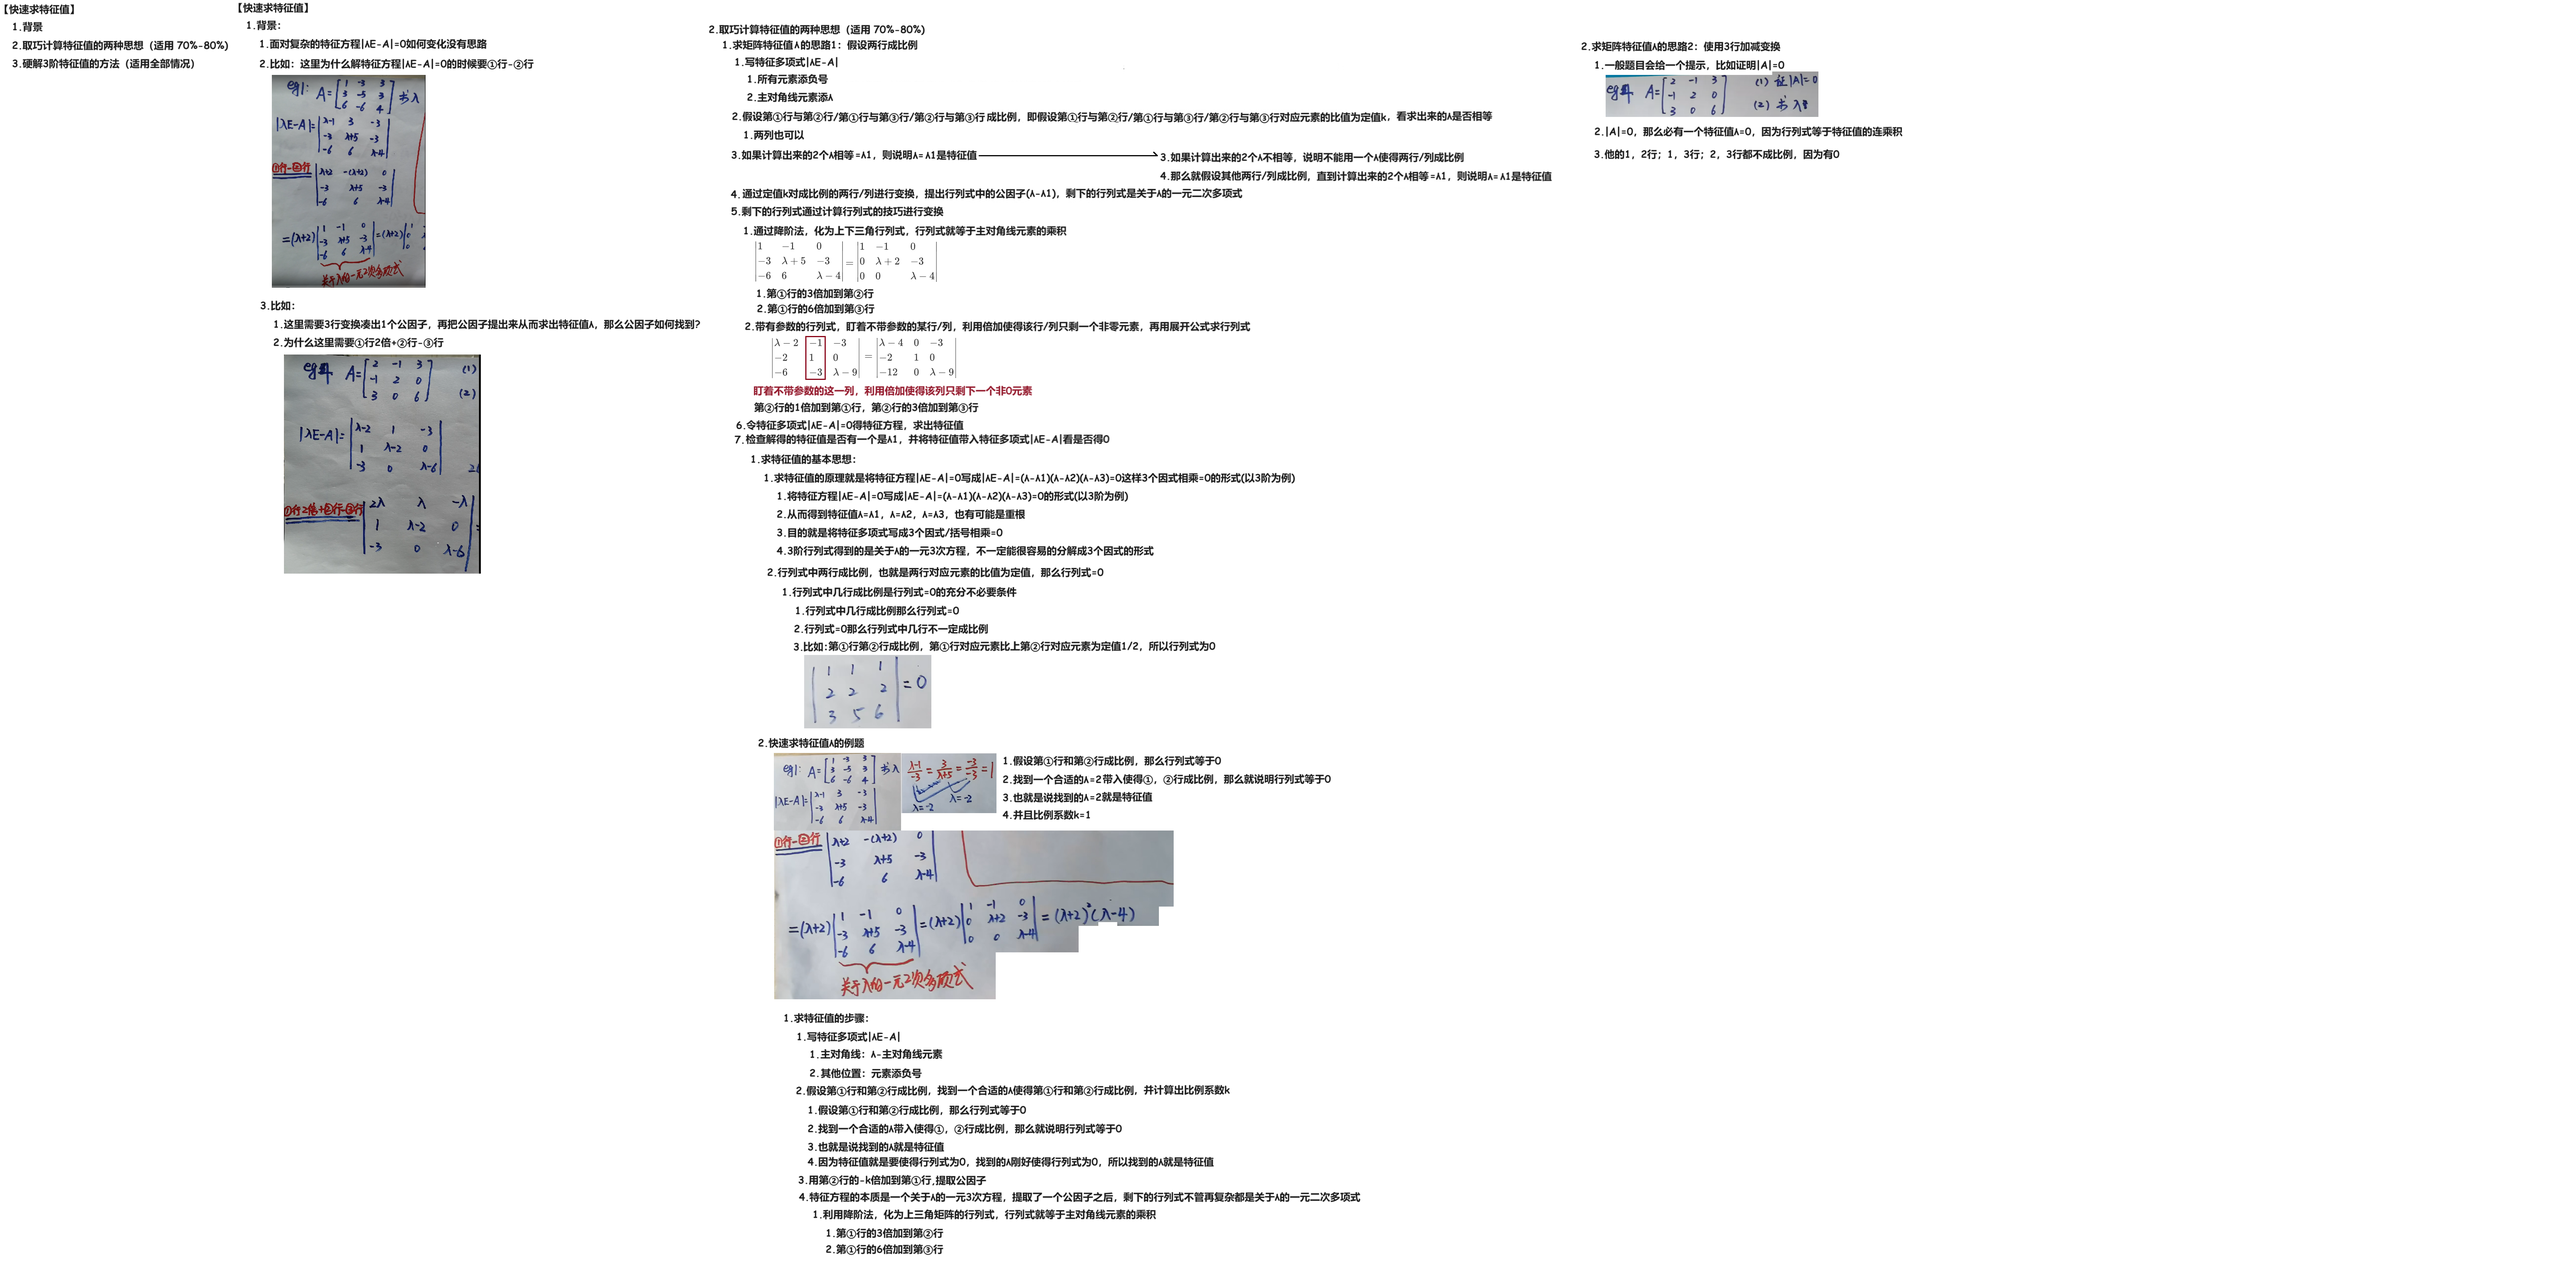
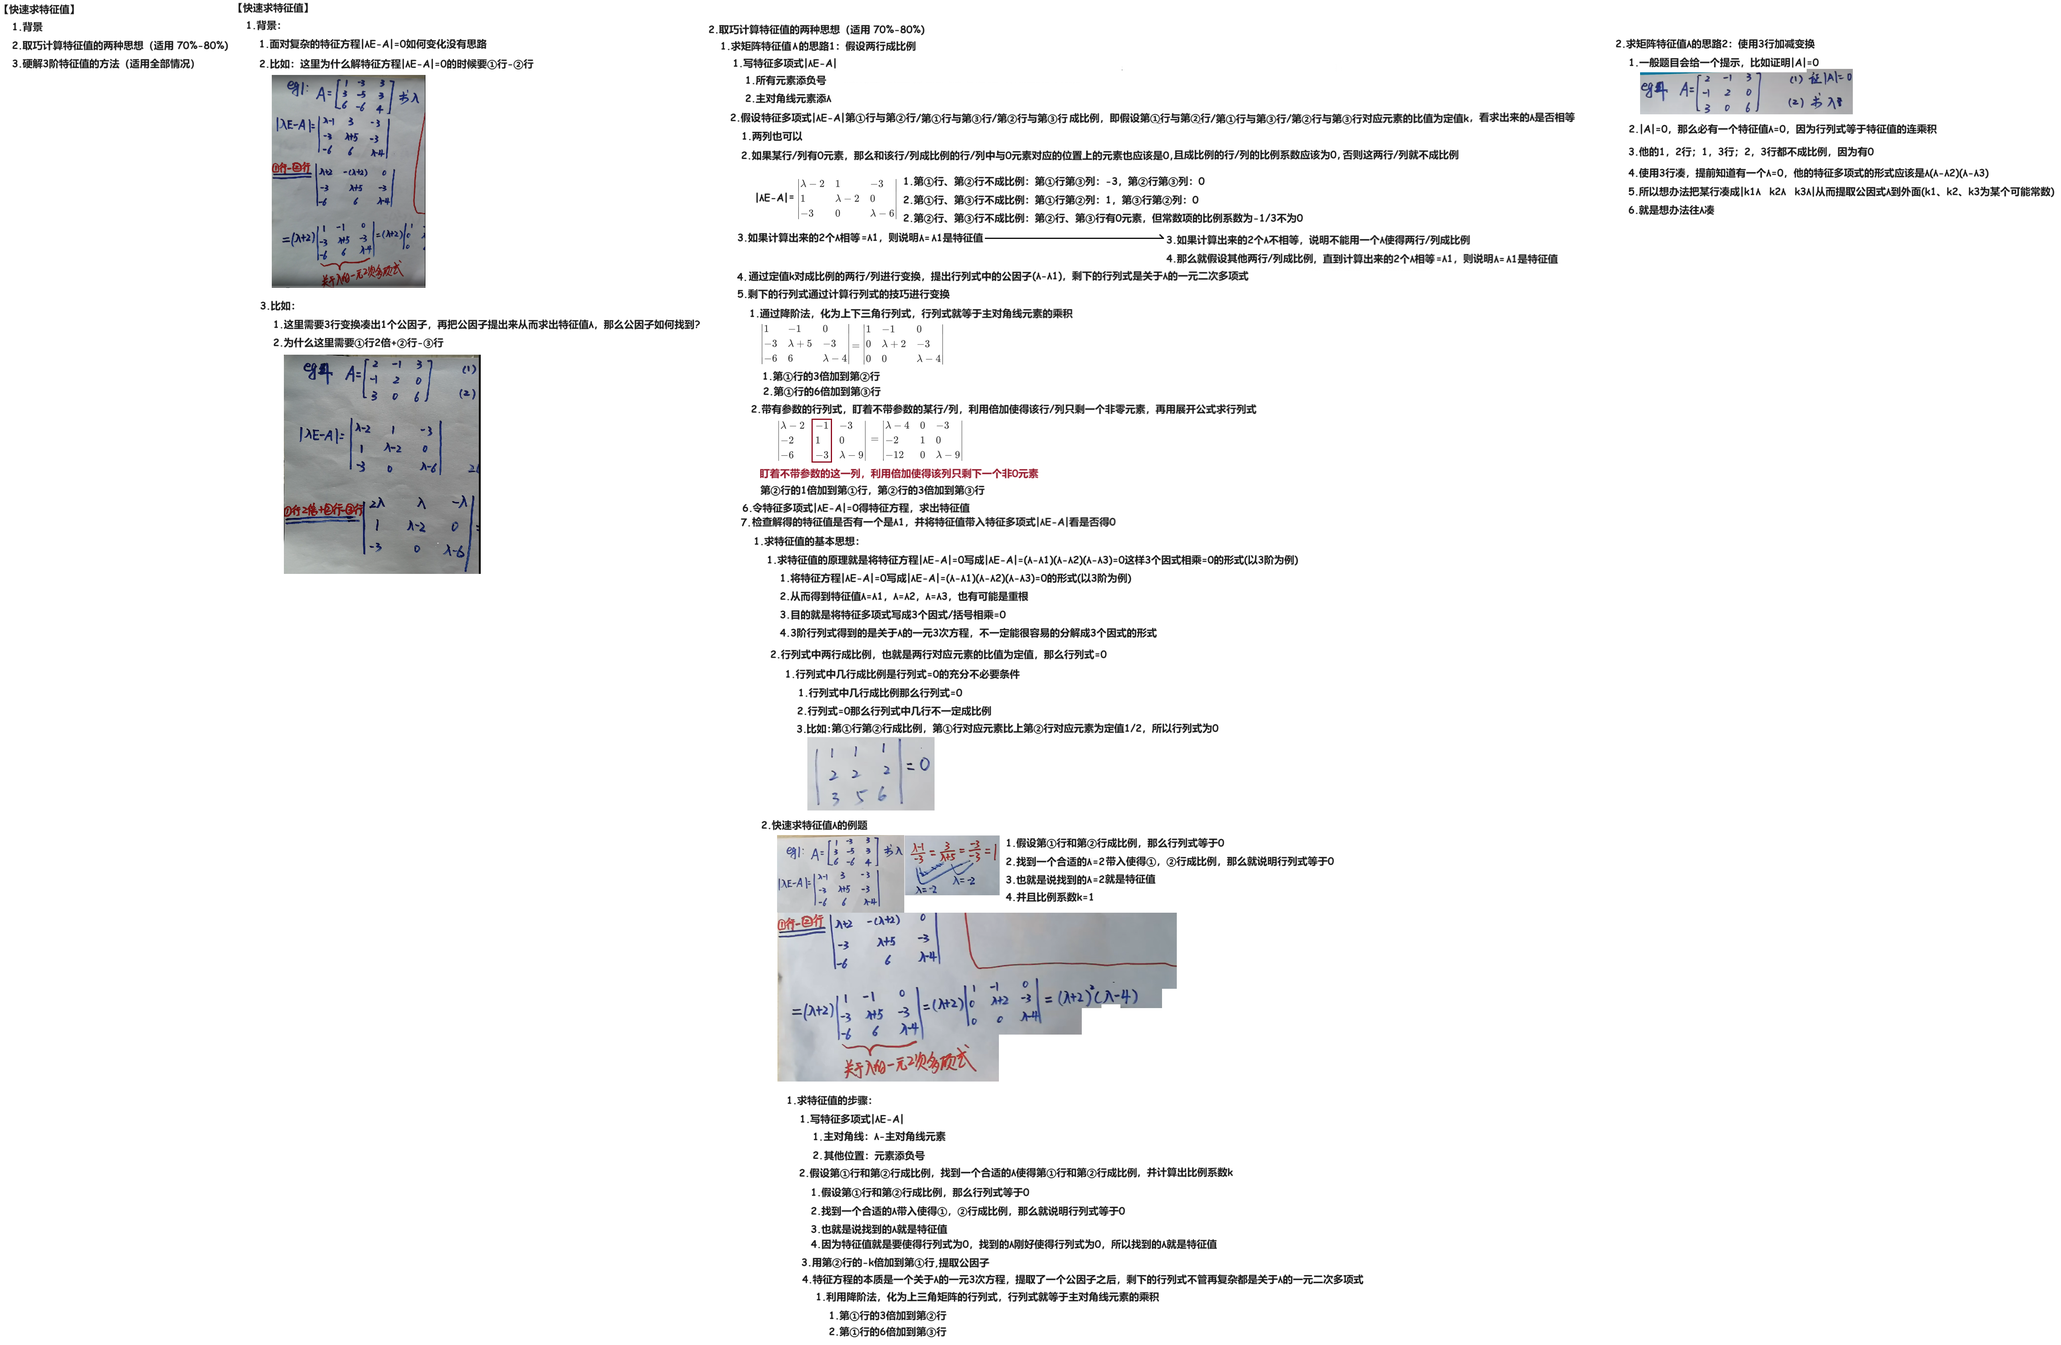
240303

Changed region(s): [[0.0, 0.0, 0.7493, 0.997], [0.7805, 0.0312, 0.9991, 0.1558], [0.562, 0.8412, 0.5932, 0.8724]]

diff --git a/02 线代/01 题集/02 专题/01 求特征值和特征向量/01 【B站 成大器young】快速求特征值/01 知识点/02 Doc.md b/02 线代/01 题集/02 专题/01 求特征值和特征向量/01 【B站 成大器young】快速求特征值/01 知识点/02 Doc.md
@@ -2,9 +2,15 @@
 
 
 
+# 01 求矩阵特征值λ的思路1 假设两行成比例
+
+<img src="https://cvp.oss-cn-shanghai.aliyuncs.com/picgo/202403031825029.png" alt="image-20240303182539803" style="zoom:50%;" />
+
+
+
 # 01 取巧计算特征值的两种思想（适用 70%-80%)
 
-<img src="https://cvp.oss-cn-shanghai.aliyuncs.com/picgo/202403031606405.png" alt="image-20240303160645706" style="zoom:50%;" />
+<img src="https://cvp.oss-cn-shanghai.aliyuncs.com/picgo/202403031829473.png" alt="image-20240303182908537" style="zoom:50%;" />
 
 
 
